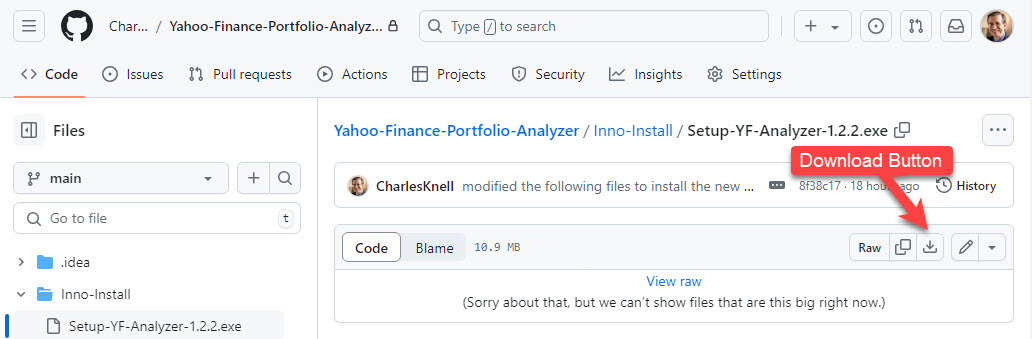
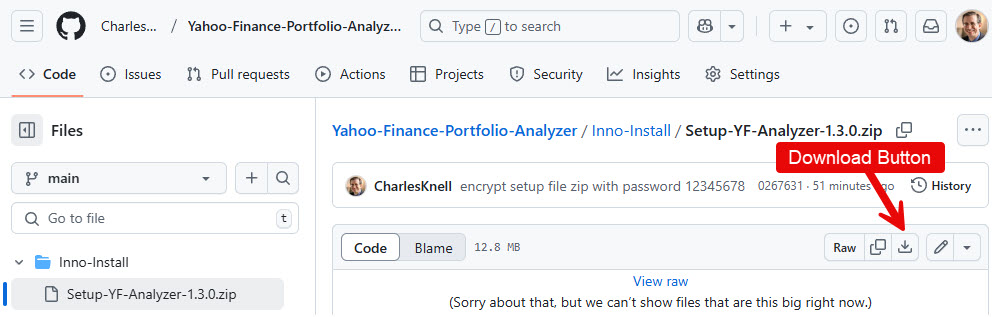
delete Setup-YF-Analyzer-1.3.0.exe

diff --git a/README.md b/README.md
@@ -7,10 +7,12 @@
 
 ### Windows Setup
 
-* The setup file, Setup-YF-Analyzer-x.x.x.exe, is located in the "Inno-Install" folder.
-* Click on "Inno-Install" folder, then on the setup file, and then on the download button.
+* The setup file zip file, Setup-YF-Analyzer-x.x.x.zip, is located in the "Inno-Install" folder.
+* Click on "Inno-Install" folder, then on the setup zip file, and then on the download button.
 ![Setup File Download Link Image](YF-setup-download.jpg)
-* Install using Setup-YF-Analyzer-x.x.x.exe
+* Extract the setup file .exe from Setup-YF-Analyzer-x.x.x.zip
+* The password to open this zip file is 12345678
+* Execute Setup-YF-Analyzer-x.x.x.exe to install the program.
 * Start the program by clicking on the desktop icon titled "YF Analyzer x.x.x".
 
 ## After Starting the Program (Windows)
